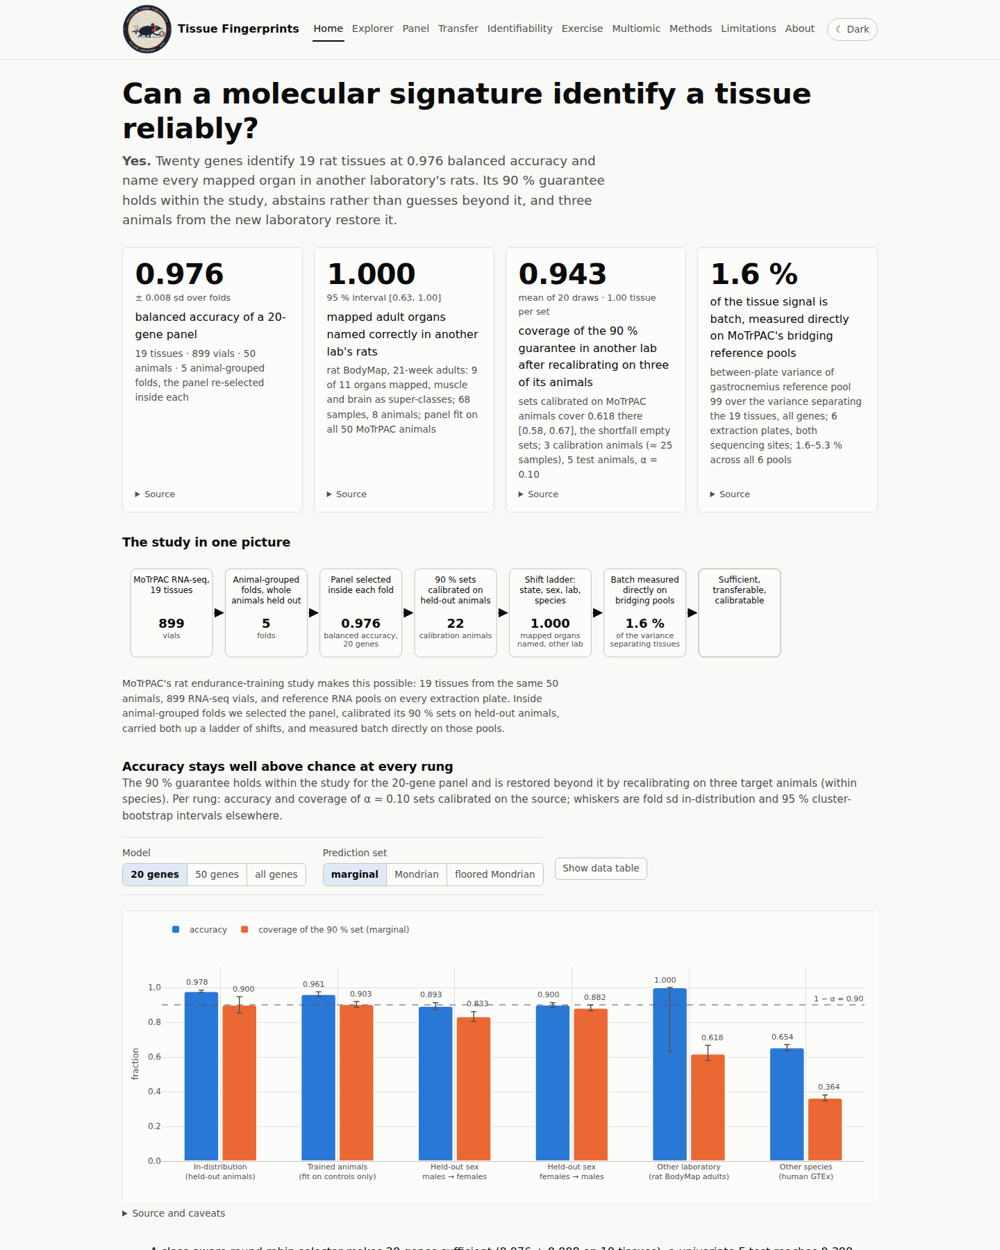
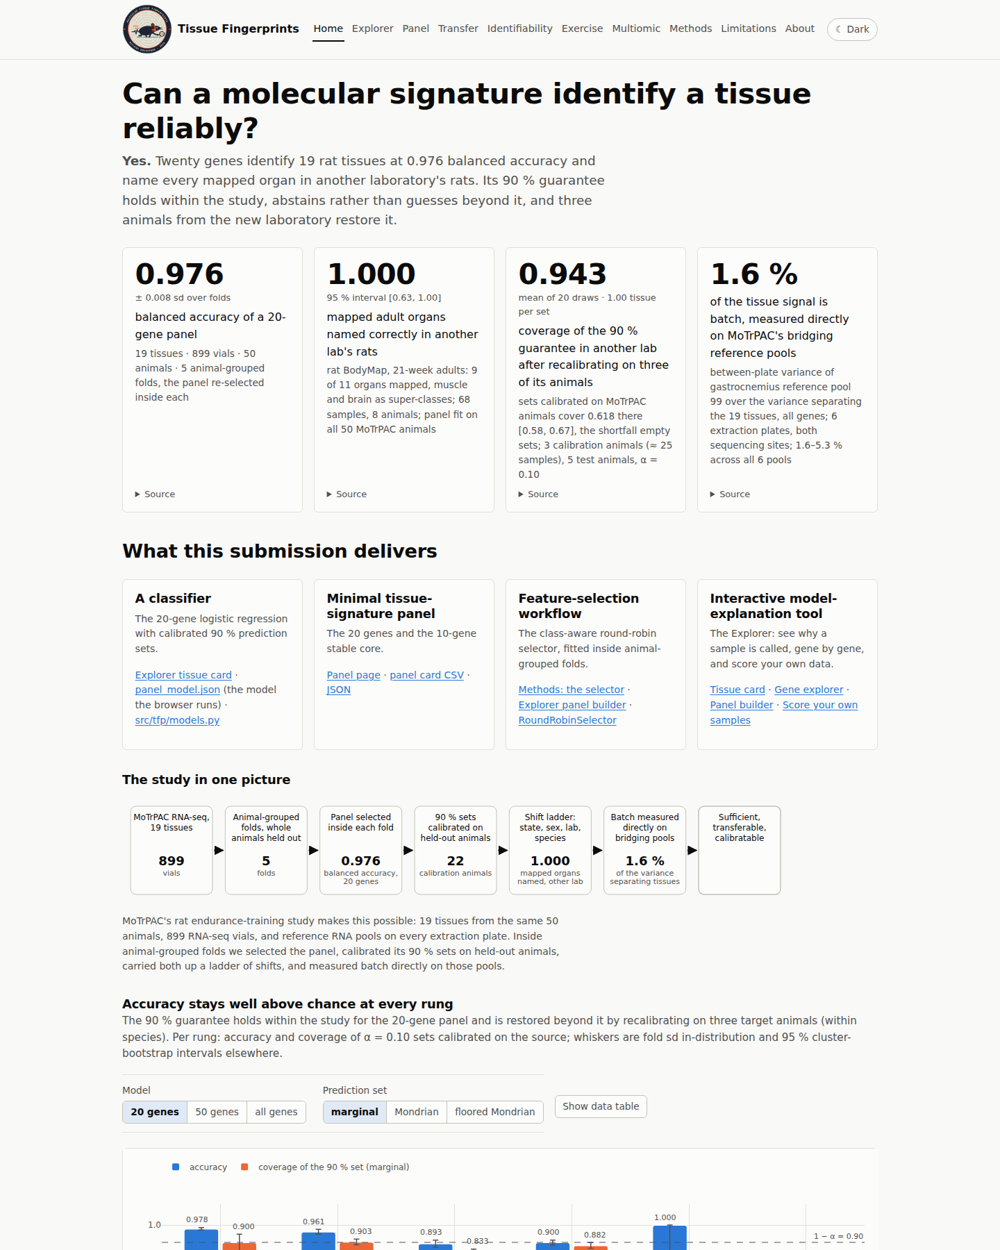
v9.1: "What this submission delivers" on Home; track outputs mapped in README and compliance; version 1.8.1
Four cards under the hero tiles (classifier, minimal panel, feature-selection workflow,
interactive explanation tool), each linking the page, data file and code. Same mapping
as a README table after "The answer" and in docs/COMPETITION_COMPLIANCE.md. Links and
text only, no new numbers.

Changed region(s): [[0.124, 0.4056, 0.868, 1.0]]

diff --git a/site/index.html b/site/index.html
@@ -36,6 +36,24 @@
 
   <div class="tiles" id="tiles"></div>
 
+  <section class="section" id="deliverables" aria-labelledby="deliverables-h">
+    <h2 id="deliverables-h">What this submission delivers</h2>
+    <div class="tiles">
+      <div class="tile"><h3>A classifier</h3>
+        <p class="small">The 20-gene logistic regression with calibrated 90 % prediction sets.</p>
+        <p class="small"><a href="explore.html#tissue-card">Explorer tissue card</a> · <a href="data/panel_model.json">panel_model.json</a> (the model the browser runs) · <a href="https://github.com/CoryGardner/motrpac_challenge/blob/main/src/tfp/models.py">src/tfp/models.py</a></p></div>
+      <div class="tile"><h3>Minimal tissue-signature panel</h3>
+        <p class="small">The 20 genes and the 10-gene stable core.</p>
+        <p class="small"><a href="fingerprint.html">Panel page</a> · <a href="data/panel_card.csv">panel card CSV</a> · <a href="data/panel_card.json">JSON</a></p></div>
+      <div class="tile"><h3>Feature-selection workflow</h3>
+        <p class="small">The class-aware round-robin selector, fitted inside animal-grouped folds.</p>
+        <p class="small"><a href="methods.html#selector">Methods: the selector</a> · <a href="explore.html#panel-builder">Explorer panel builder</a> · <a href="https://github.com/CoryGardner/motrpac_challenge/blob/main/src/tfp/models.py#L58">RoundRobinSelector</a></p></div>
+      <div class="tile"><h3>Interactive model-explanation tool</h3>
+        <p class="small">The Explorer: see why a sample is called, gene by gene, and score your own data.</p>
+        <p class="small"><a href="explore.html#tissue-card">Tissue card</a> · <a href="explore.html#gene-explorer">Gene explorer</a> · <a href="explore.html#panel-builder">Panel builder</a> · <a href="explore.html#score-tool">Score your own samples</a></p></div>
+    </div>
+  </section>
+
   <section class="overview" id="overview">
     <div class="figure" id="fig-overview">
       <div class="fig-head"><h3>The study in one picture</h3></div>

diff --git a/tools/screenshot.js b/tools/screenshot.js
@@ -24,7 +24,7 @@ const base = args.base || "http://localhost:8765";
 const out = args.out || "site/_screenshots";
 const pages = (args.pages ? String(args.pages).split(",") : ["index", "explore", "transfer", "exercise", "fingerprint", "identifiability", "multiomic", "methods", "limitations", "about"]);
 // visible-word budgets per page (main.innerText), enforced with --strict-words
-const BUDGET = { index: 1200, explore: 1750, transfer: 1850, exercise: 1750, fingerprint: 1100, identifiability: 1150, methods: 1200, limitations: 700, about: 650 };
+const BUDGET = { index: 1300, explore: 1750, transfer: 1850, exercise: 1750, fingerprint: 1100, identifiability: 1150, methods: 1200, limitations: 700, about: 650 };
 const strictWords = !!args["strict-words"];
 const sizes = [{ name: "desktop", width: 1440, height: 900 }, { name: "tablet", width: 1024, height: 768 }, { name: "phone", width: 390, height: 844 }];
 const themes = ["light", "dark"];

diff --git a/site/assets/theme.css b/site/assets/theme.css
@@ -105,6 +105,7 @@ nav.primary a:hover { color: var(--ink); }
 .tile .value .of { font-size: 0.5em; font-weight: 500; color: var(--ink-2); margin-left: 0.2em; }
 .tile .ci { margin-top: 0.15rem; font-size: 0.8rem; color: var(--ink-2); white-space: normal; overflow-wrap: anywhere; font-variant-numeric: tabular-nums; }
 .tile .label { margin-top: 0.4rem; font-weight: 500; color: var(--ink); max-width: none; }
+.tile > h3 { margin-top: 0; }
 .tile .sub { margin-top: 0.25rem; color: var(--ink-2); font-size: 0.85rem; max-width: none; }
 .tile .source { margin-top: auto; padding-top: 0.5rem; color: var(--muted); font-size: 0.75rem; word-break: break-word; max-width: none; }
 .tile .tile-src { margin-top: auto; padding-top: 0.5rem; }

diff --git a/README.md b/README.md
@@ -10,7 +10,7 @@ of processing effects on the consortium's bridging standards, an exercise-specif
 every number carries provenance and whose Explorer scores new samples with the panel in the browser.
 
 [![tests](https://github.com/CoryGardner/motrpac_challenge/actions/workflows/tests.yml/badge.svg)](https://github.com/CoryGardner/motrpac_challenge/actions/workflows/tests.yml)
-**Live site:** https://corygardner.github.io/motrpac_challenge/ · **Release:** tag `hackathon-submission-v9` (version 1.8.0) · **Licence:** MIT
+**Live site:** https://corygardner.github.io/motrpac_challenge/ · **Release:** tag `hackathon-submission-v9.1` (version 1.8.1) · **Licence:** MIT
 
 ![The home page: the question, the tiles, the one-picture diagram and the transfer ladder](figures/home.png)
 
@@ -40,6 +40,15 @@ within-study accuracy alone cannot say how much of a fingerprint is biology. Two
 and MoTrPAC's bridging reference pools, on which batch measured directly is about 1.6 % of the variance that separates
 tissues. Training itself barely moves the fingerprint: it is a within-tissue, minor-axis signal, smaller than the tissue
 contrast on every panel gene (see the Exercise page).
+
+## Track outputs → where they are
+
+| output the track names | what it is | where |
+|---|---|---|
+| A classifier | the 20-gene logistic regression with calibrated 90 % prediction sets | [Explorer tissue card](https://corygardner.github.io/motrpac_challenge/explore.html#tissue-card); `site/data/panel_model.json` (the model the browser runs); [`src/tfp/models.py`](https://github.com/CoryGardner/motrpac_challenge/blob/main/src/tfp/models.py) |
+| Minimal tissue-signature panel | the 20 genes and the 10-gene stable core | [Panel page](https://corygardner.github.io/motrpac_challenge/fingerprint.html); `site/data/panel_card.csv`, `site/data/panel_card.json` |
+| Feature-selection workflow | the class-aware round-robin selector, fitted inside animal-grouped folds | [Methods: the selector](https://corygardner.github.io/motrpac_challenge/methods.html#selector); [Explorer panel builder](https://corygardner.github.io/motrpac_challenge/explore.html#panel-builder); [`RoundRobinSelector`](https://github.com/CoryGardner/motrpac_challenge/blob/main/src/tfp/models.py#L58) in `src/tfp/models.py` |
+| Interactive model-explanation tool | the Explorer: why a sample is called, gene by gene, and scoring of new samples | [tissue card](https://corygardner.github.io/motrpac_challenge/explore.html#tissue-card), [gene explorer](https://corygardner.github.io/motrpac_challenge/explore.html#gene-explorer), [panel builder](https://corygardner.github.io/motrpac_challenge/explore.html#panel-builder), [Score your own samples](https://corygardner.github.io/motrpac_challenge/explore.html#score-tool) |
 
 ## Key results
 
@@ -257,7 +266,7 @@ Known failure modes and limits (details on the site's Limitations page):
 ## Reuse
 
 - **Licence:** MIT for code, site and derived tables (`LICENSE`); the data keep their own terms (table above).
-- **Cite:** `CITATION.cff` (version 1.8.0, tag `hackathon-submission-v9`), the three data papers, and the multiomic sources in the Data section.
+- **Cite:** `CITATION.cff` (version 1.8.1, tag `hackathon-submission-v9.1`), the three data papers, and the multiomic sources in the Data section.
 - **Score your samples:** the Explorer's *Score your own samples* tool takes a CSV of log2 CPM for the 20 panel genes
   (a template is provided) and returns tissue calls and 90 % prediction sets in the browser, with optional recalibration
   on labelled samples; the panel card (`site/data/panel_card.csv`, `.json`) lists the genes with their mean expression per

diff --git a/docs/COMPETITION_COMPLIANCE.md b/docs/COMPETITION_COMPLIANCE.md
@@ -30,3 +30,14 @@ The Rat PAC: Samuel Montalvo, Manasa Rapuru, Erol Evangelista and Cory Gardner (
 `site/about.html` and `CITATION.cff`.
 
 AI tools assisted with code and writing; all results were verified by the team.
+
+## Track outputs → where they are
+
+| output the track names | what it is | where |
+|---|---|---|
+| A classifier | the 20-gene logistic regression with calibrated 90 % prediction sets | [Explorer tissue card](https://corygardner.github.io/motrpac_challenge/explore.html#tissue-card); `site/data/panel_model.json` (the model the browser runs); [`src/tfp/models.py`](https://github.com/CoryGardner/motrpac_challenge/blob/main/src/tfp/models.py) |
+| Minimal tissue-signature panel | the 20 genes and the 10-gene stable core | [Panel page](https://corygardner.github.io/motrpac_challenge/fingerprint.html); `site/data/panel_card.csv`, `site/data/panel_card.json` |
+| Feature-selection workflow | the class-aware round-robin selector, fitted inside animal-grouped folds | [Methods: the selector](https://corygardner.github.io/motrpac_challenge/methods.html#selector); [Explorer panel builder](https://corygardner.github.io/motrpac_challenge/explore.html#panel-builder); [`RoundRobinSelector`](https://github.com/CoryGardner/motrpac_challenge/blob/main/src/tfp/models.py#L58) in `src/tfp/models.py` |
+| Interactive model-explanation tool | the Explorer: why a sample is called, gene by gene, and scoring of new samples | [tissue card](https://corygardner.github.io/motrpac_challenge/explore.html#tissue-card), [gene explorer](https://corygardner.github.io/motrpac_challenge/explore.html#gene-explorer), [panel builder](https://corygardner.github.io/motrpac_challenge/explore.html#panel-builder), [Score your own samples](https://corygardner.github.io/motrpac_challenge/explore.html#score-tool) |
+
+The same mapping is the "What this submission delivers" section of the home page (`site/index.html#deliverables`).

diff --git a/CHANGELOG.md b/CHANGELOG.md
@@ -4,6 +4,17 @@ All notable changes to this repository. The format follows [Keep a Changelog](ht
 dates are UTC. Each section is a `hackathon-submission-v<n>` git tag; the version numbers are those of `CITATION.cff`
 and `pyproject.toml`.
 
+## [1.8.1] — 2026-09-27 (tag `hackathon-submission-v9.1`)
+
+### Added
+- Home: "What this submission delivers", four cards under the hero tiles mapping the track's four outputs (classifier,
+  minimal panel, feature-selection workflow, interactive explanation tool) to the pages, data files and code.
+- The same mapping as "Track outputs → where they are" in the README (after "The answer") and in
+  `docs/COMPETITION_COMPLIANCE.md`.
+
+### Changed
+- Home word budget in `tools/screenshot.js` raised from 1200 to 1300 for the new section.
+
 ## [1.8.0] — 2026-09-27 (tag `hackathon-submission-v9`)
 
 ### Added
